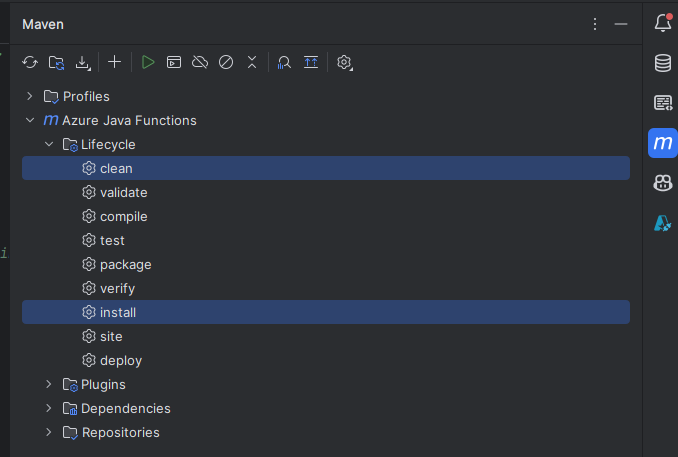
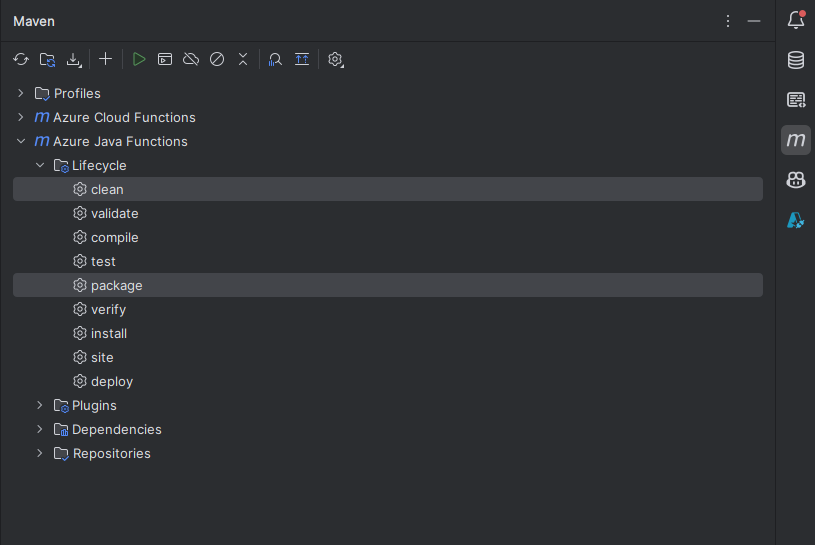
java-function | @TableInput, @ServiceBusQueueTrigger And @ServiceBusQueueOutput

diff --git a/document/Azure Function With Java.md b/document/Azure Function With Java.md
@@ -1,8 +1,10 @@
 # Azure Function With Java
 
-- [Create Project](#create-project)
-- [Deploy Information](#deploy-information)
-- [All Annotation](#all-annotation)
+- [**Create Project**](#create-project)
+- [**Deploy Information**](#deploy-information)
+- [**All Annotation**](#all-annotation)
+  - [*Table Input*](#tableinput)
+  - [*@ServiceBusQueueTrigger vs @ServiceBusQueueOutput*](#servicebusqueuetrigger-vs-servicebusqueueoutput)
 
 
 ## Create Project
@@ -101,7 +103,7 @@
 | Tag                                  | Complain                                                                                                 |
 |--------------------------------------|----------------------------------------------------------------------------------------------------------|
 | `<groupId>...</groupId>`             | The group Id specifies the group identifier for the plugin.                                              |
-| `<artifactId>...</artifactId>`       |                                                                                                          |
+| `<artifactId>...</artifactId>`       | `artifactId` is the name of the project/module or library you are using or creating.                     |
 | `<version>...</version>`             | Version specifies the version of the plugin to use                                                       |
 | `<configuration>...</configuration>` | Where we provide specific configuration setting for the plugin.                                          |
 | `<appName>...</appName>`             | Here you specifies the name of your Azure Functions Application.                                         |
@@ -115,8 +117,6 @@
 | `<executions>...</executions>`       | We define when and how the Plugin's goal should be executed                                              |
 |                                      |                                                                                                          |
 
-
-## @Function Information
 
 ## All Annotation
 - Azure Functions in Java provides a set of annotations to define input and output bindings, triggers, and other configurations directly in your Java code. These annotations simplify the process of creating serverless functions. Below is a list of commonly used annotations in Azure Functions for Java:
@@ -156,3 +156,156 @@
 | `@Cardinality`    | Specifies the cardinality of the input (e.g., single or multiple items)  |
 | `@StorageAccount` | Specifies the Azure Storage account to use for bindings                  |
 
+--------------------------
+<br/>
+
+### @TableInput
+
+```java
+import com.microsoft.azure.functions.annotation.TableInput;
+
+   @TableInput(name = "customer", 
+                tableName = "CustomerTable", 
+                partitionKey = "customerPartition", 
+                rowKey = "{id}", 
+                connection = "AzureWebJobsStorage") CustomerEntity customerEntity
+)
+```
+
+#
+#### Parameters
+- it is commonly used in Azure Functions when working with Azure Table Storage bindings in Java.
+- Use @TableInput when you want to automatically bind to a specific row in Azure Table Storage inside an Azure Function.
+
+| Field          | Description                                                               |
+|----------------|---------------------------------------------------------------------------|
+| `name`         | Variable name for the binding                                             |
+| `tableName`    | Name of the Table in Azure Storage                                        |
+| `partitionKey` | Partition key of the row you want to retrieve                             |
+| `rowKey`       | Row key (can use `{}` syntax to map from request params)                  |
+| `connection`   | Name of the app setting containing the connection string to Table Storage |
+
+#
+#### Create Azure table with code
+- `@TableInput` Can not create table because it's only to read data from an already existing table in Azure Table Storage.
+- If you want to create you must use:
+
+```java
+import com.azure.data.tables.*;
+import com.azure.data.tables.models.*;
+
+public class TableHelper {
+    public static void createTableIfNotExists(String tableName, String connectionString) {
+        TableServiceClient serviceClient = new TableServiceClientBuilder()
+            .connectionString(connectionString)
+            .buildClient();
+
+        if (!serviceClient.listTableNames().stream().anyMatch(name -> name.equalsIgnoreCase(tableName))) {
+            serviceClient.createTable(tableName);
+            System.out.println("Table created: " + tableName);
+        } else {
+            System.out.println("Table already exists: " + tableName);
+        }
+    }
+}
+```
+#
+### @ServiceBusQueueTrigger vs @ServiceBusQueueOutput
+- If you use `@ServiceBusQueueTrigger`, your Azure Function automatically triggers whenever a new message arrives in the specified queue — no manual polling required.
+- Both `@ServiceBusQueueOutput` and `@ServiceBusQueueTrigger` are Azure Functions Java annotations used to interact with Azure Service Bus queues, but they serve very different purposes.
+- `queueName`: the name of your queue
+- `connection`: name of the environment variable with Service Bus connection string
+
+| Annotation                | Purpose                     | Direction | Use Case                                |
+|---------------------------|-----------------------------|-----------|-----------------------------------------|
+| `@ServiceBusQueueTrigger` | Reads messages from a queue | Input     | Trigger the function on message arrival |
+| `@ServiceBusQueueOutput`  | Sends message to a queue    | Output    | Output data to another queue            |
+
+#
+
+- `@ServiceBusQueueOutput` will put message into `query-queue` 
+- And when `have message trigger` `@ServiceBusQueueTrigger` will go to the `query-queue` to take message and trigger
+```java
+package com.example;
+
+import com.microsoft.azure.functions.annotation.ServiceBusQueueTrigger;
+import com.microsoft.azure.functions.annotation.ServiceBusQueueOutput;
+
+/**
+ * Azure Function triggered by Service Bus queue and outputs to another queue
+ */
+public class QueueTriggerToOutputFunction {
+
+    @FunctionName("trigger")
+    public void trigger(
+        @ServiceBusQueueTrigger(
+            name = "incomingMessage",
+            queueName = "query-queue",
+            connection = "ServiceBusConnection"
+        ) String inputMessage,
+        final ExecutionContext context
+    ) {
+        context.getLogger().info("Received message: " + inputMessage);
+
+        // Simple transformation
+        String processedMessage = "Processed: " + inputMessage;
+
+        // Send to output queue
+        outputBinding.setValue(processedMessage);
+        context.getLogger().info("Sent to output queue: " + processedMessage);
+    }
+
+    @FunctionName("output")
+    public void output(
+            @ServiceBusQueueOutput(
+                    name = "outputMessage",
+                    queueName = "query-queue",
+                    connection = "ServiceBusConnection"
+            ) OutputBinding<String> outputBinding,
+            final ExecutionContext context
+    ) {
+        context.getLogger().info("Received message: " + inputMessage);
+
+        // Simple transformation
+        String processedMessage = "Processed: " + inputMessage;
+
+        // Send to output queue
+        outputBinding.setValue(processedMessage);
+        context.getLogger().info("Sent to output queue: " + processedMessage);
+    }
+    
+}
+```
+#
+#### Create Programmatically via Java SDK
+```pom
+<dependency>
+    <groupId>com.microsoft.azure.functions</groupId>
+    <artifactId>azure-functions-java-library</artifactId>
+    <version>1.4.2</version>
+</dependency>
+<dependency>
+    <groupId>com.azure</groupId>
+    <artifactId>azure-messaging-servicebus</artifactId>
+    <version>7.17.0</version>
+</dependency>
+```
+
+```java
+import com.azure.messaging.servicebus.administration.*;
+
+public class QueueSetup {
+    public static void createQueueIfNotExists(String connectionString, String queueName) {
+        ServiceBusAdministrationClient adminClient = new ServiceBusAdministrationClientBuilder()
+            .connectionString(connectionString)
+            .buildClient();
+
+        if (!adminClient.getQueueExists(queueName)) {
+            adminClient.createQueue(queueName);
+            System.out.println("Queue created: " + queueName);
+        } else {
+            System.out.println("Queue already exists: " + queueName);
+        }
+    }
+}
+```
